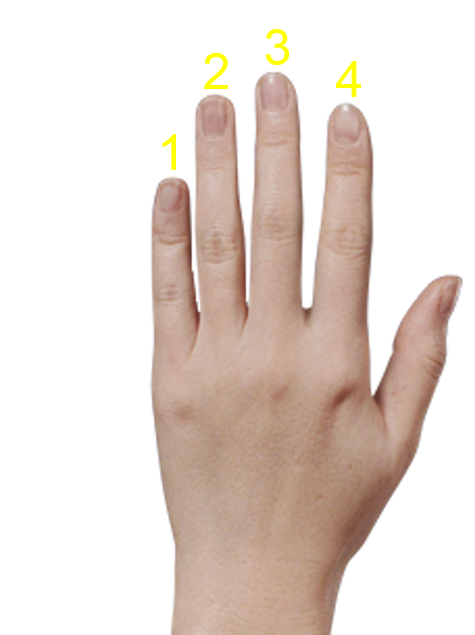
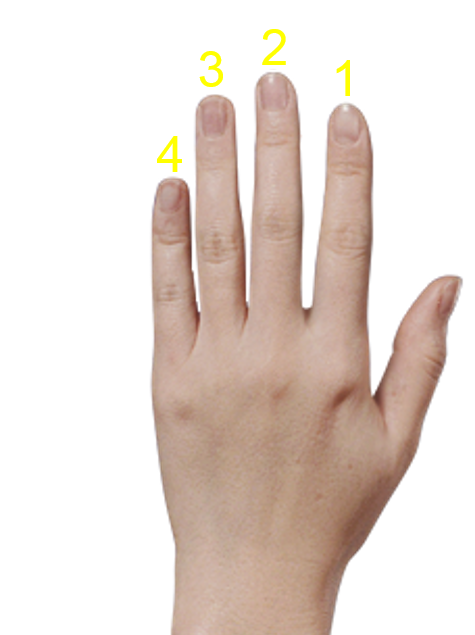
new parameter not yet implemented

diff --git a/experiments/ld_parameters.m b/experiments/ld_parameters.m
@@ -9,6 +9,9 @@ param = struct(...
     'rawDir',               HOME, ... 
     'outputDir',            [HOME, 'output', filesep], ...  % output directory to save data (onset and .mat)
     'LeftOrRightHand',      1,...                           % 1 = Left Hand, 2 = Right Hand
+    'flipKeys',             0,...                           % 0 = don't flip, 1 = flip keys for left Hand,
+    ...                                                     % 2 = flip keys for Right Hand, 3 =both
+    ...                                                     % (1 becomes 4, 2 becomes 3 and vice versa)
     'sessions',             [ 1  ;2 ;3.1 ;3.2 ;3.3 ;3.4],...% sessions to be performed
     'sessionBlocksNumber',  [ 16 ;4 ;4   ;4   ;4   ;4  ],...% number of Blocks for each session
     'sessionNumber',        1,...                           % number of sequence being performed

diff --git a/experiments/ld_verification.m b/experiments/ld_verification.m
@@ -30,6 +30,7 @@ texture_hand = Screen('MakeTexture', window, image_hand);
 
 success = 0;
 
+% WARNING: THIS HAS CHANGED, CURRENTLY IMPLEMENTING CHANGES
 if param.language == 1 % if French
     message = {
                 '1 = Auriclaire',...
